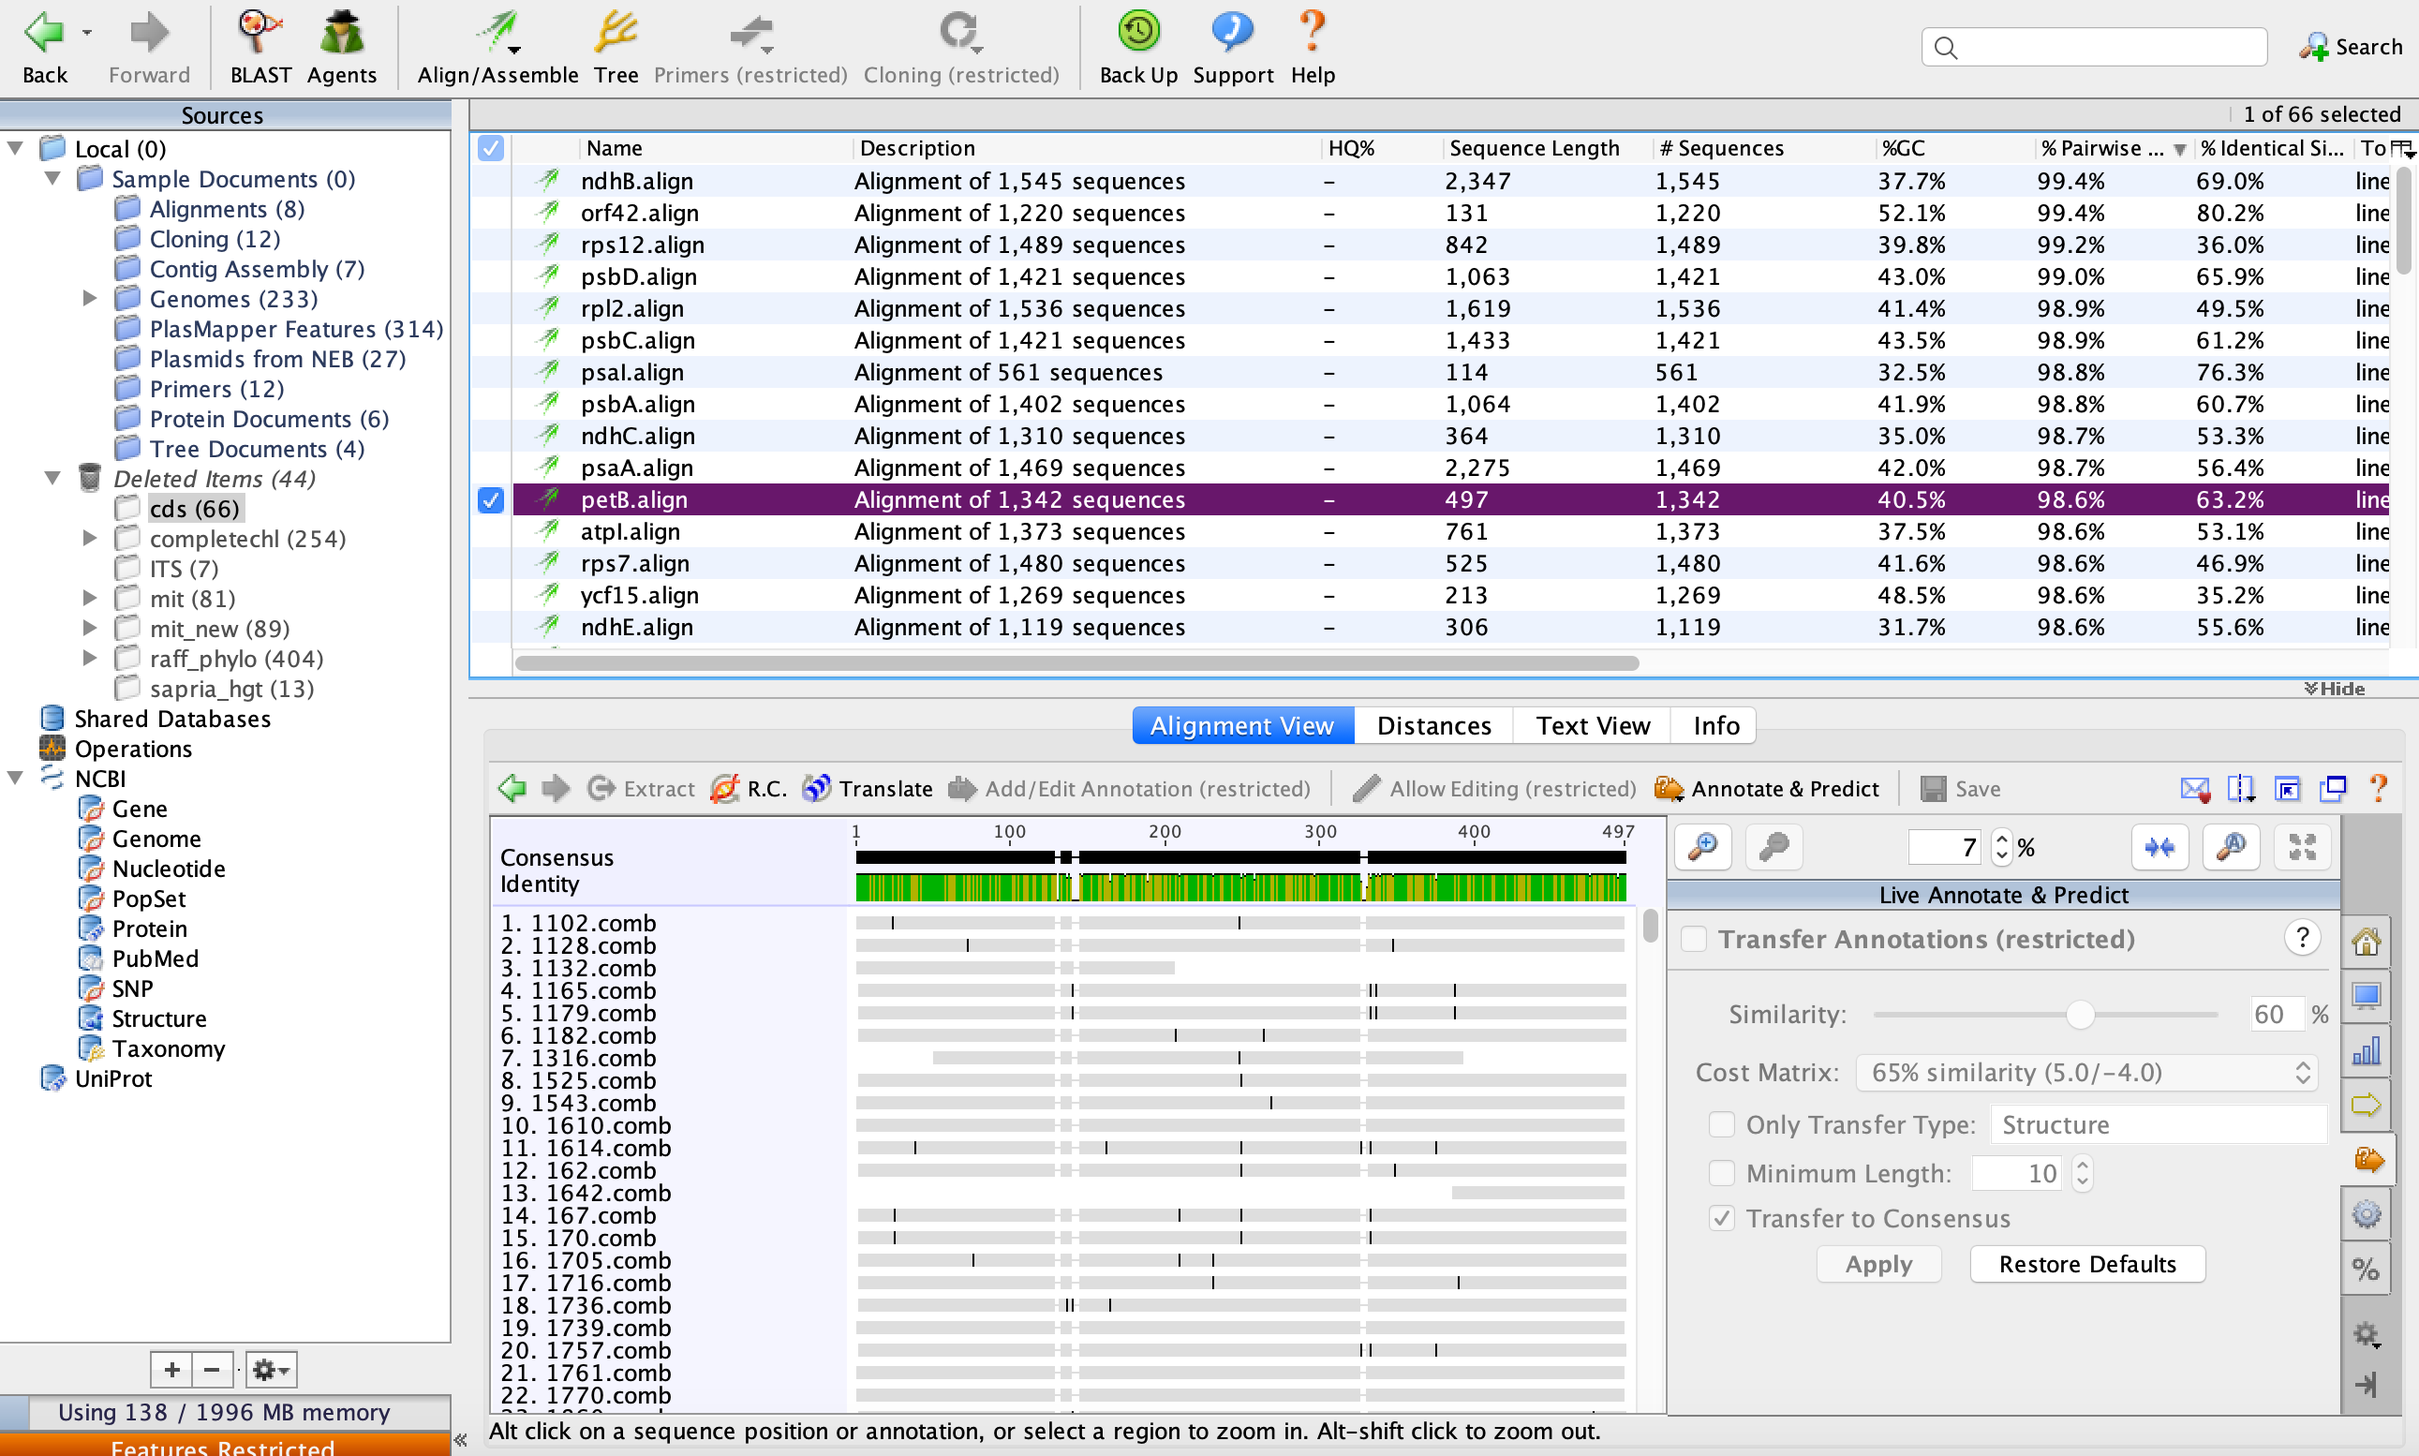
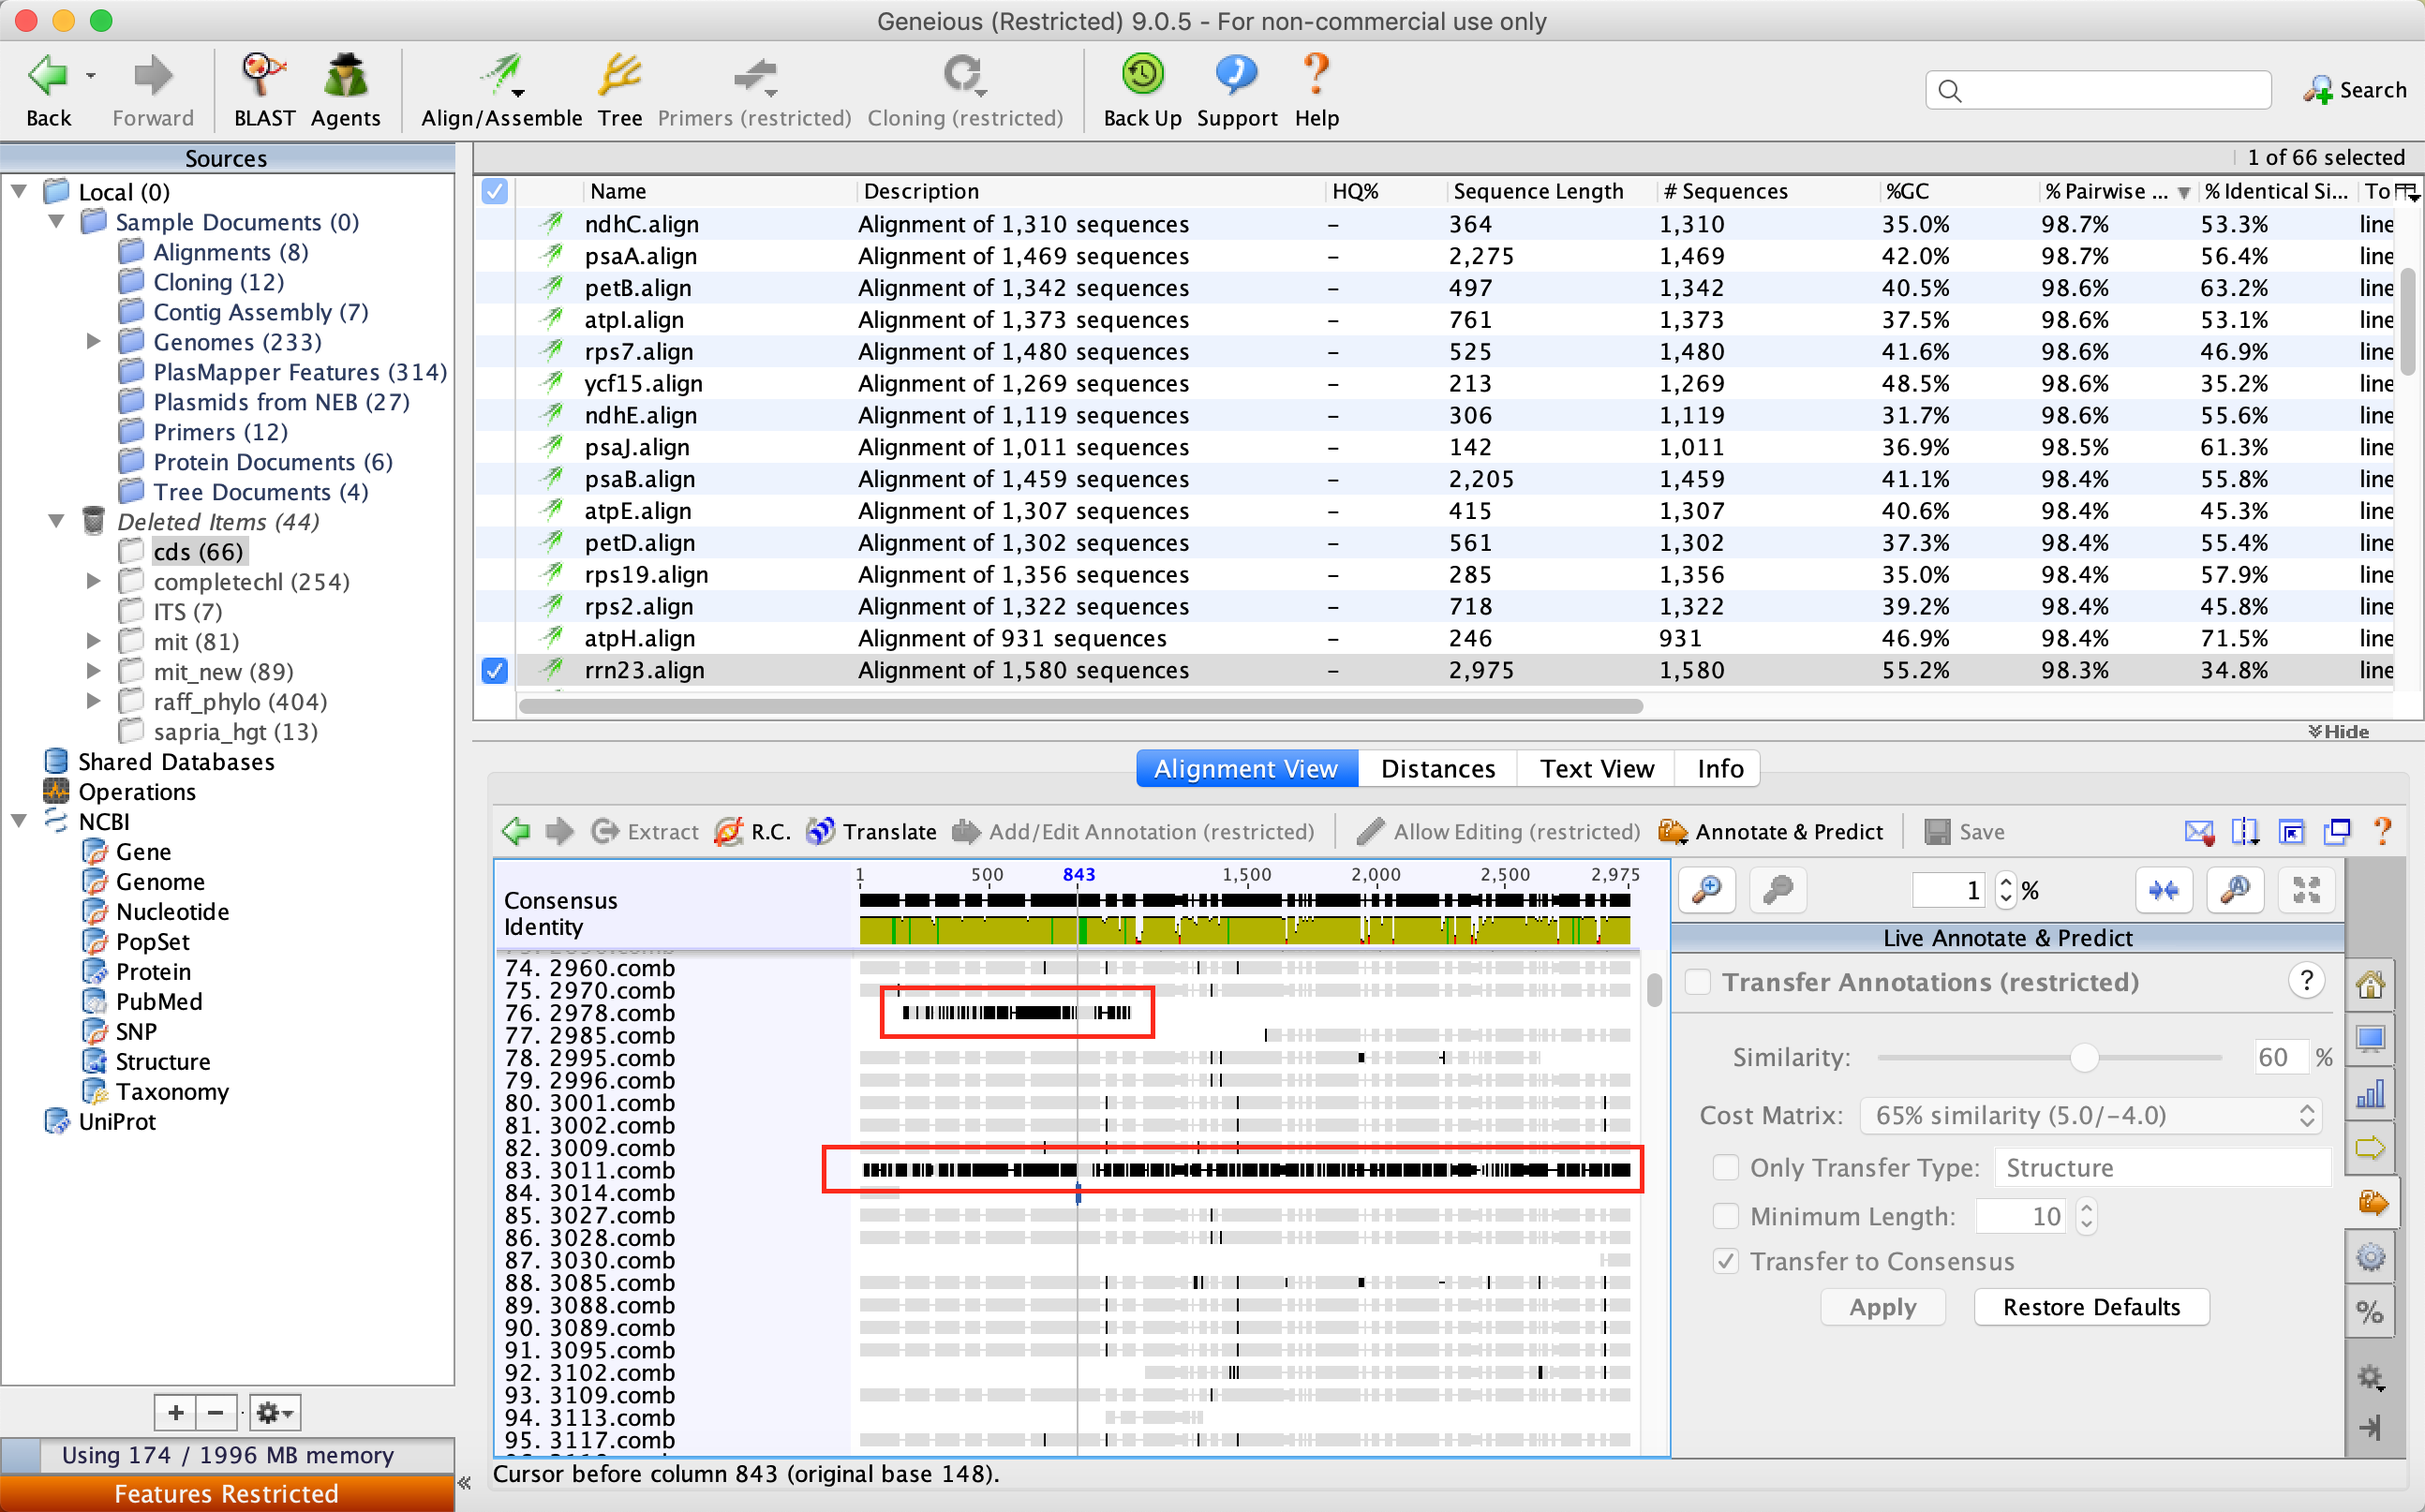
updates

Changed region(s): [[0.0, 0.0, 1.0, 1.0]]

diff --git a/README.md b/README.md
@@ -178,8 +178,11 @@ For most plant groups, mitochondria are not phylogenetically informative because
 
 At this point, it is recommended to take a initial look at your alignments. **Initial** means be prepared to complete the alignment-manual check-phylogeny cycle for at least two rounds to get publication quality data.
 
-The purpose of the initial check is to remove obvious low-quality sequences. Do not conduct any site-based filtering yet! Geneious is the best tool for this task. You can view statistics of your alignments, delete sequences, and concatenate alignments. 
+The purpose of the initial check is to remove obvious low-quality sequences. Do not conduct any site-based filtering yet! For example, the two sequences highlighted in red below contain too many SNPs. They should be removed.
 
 <img src="/images/Geneious.png" width="600" height="400">
+
+Geneious is the best tool for this task. You can view statistics of your alignments, delete sequences, and concatenate alignments. Alternative automatic tools include [trimAL](http://trimal.cgenomics.org/getting_started_with_trimal_v1.2). But I highly recommend visualizing your data.
+
 
 ## VI. Phylogeny reconstruction
